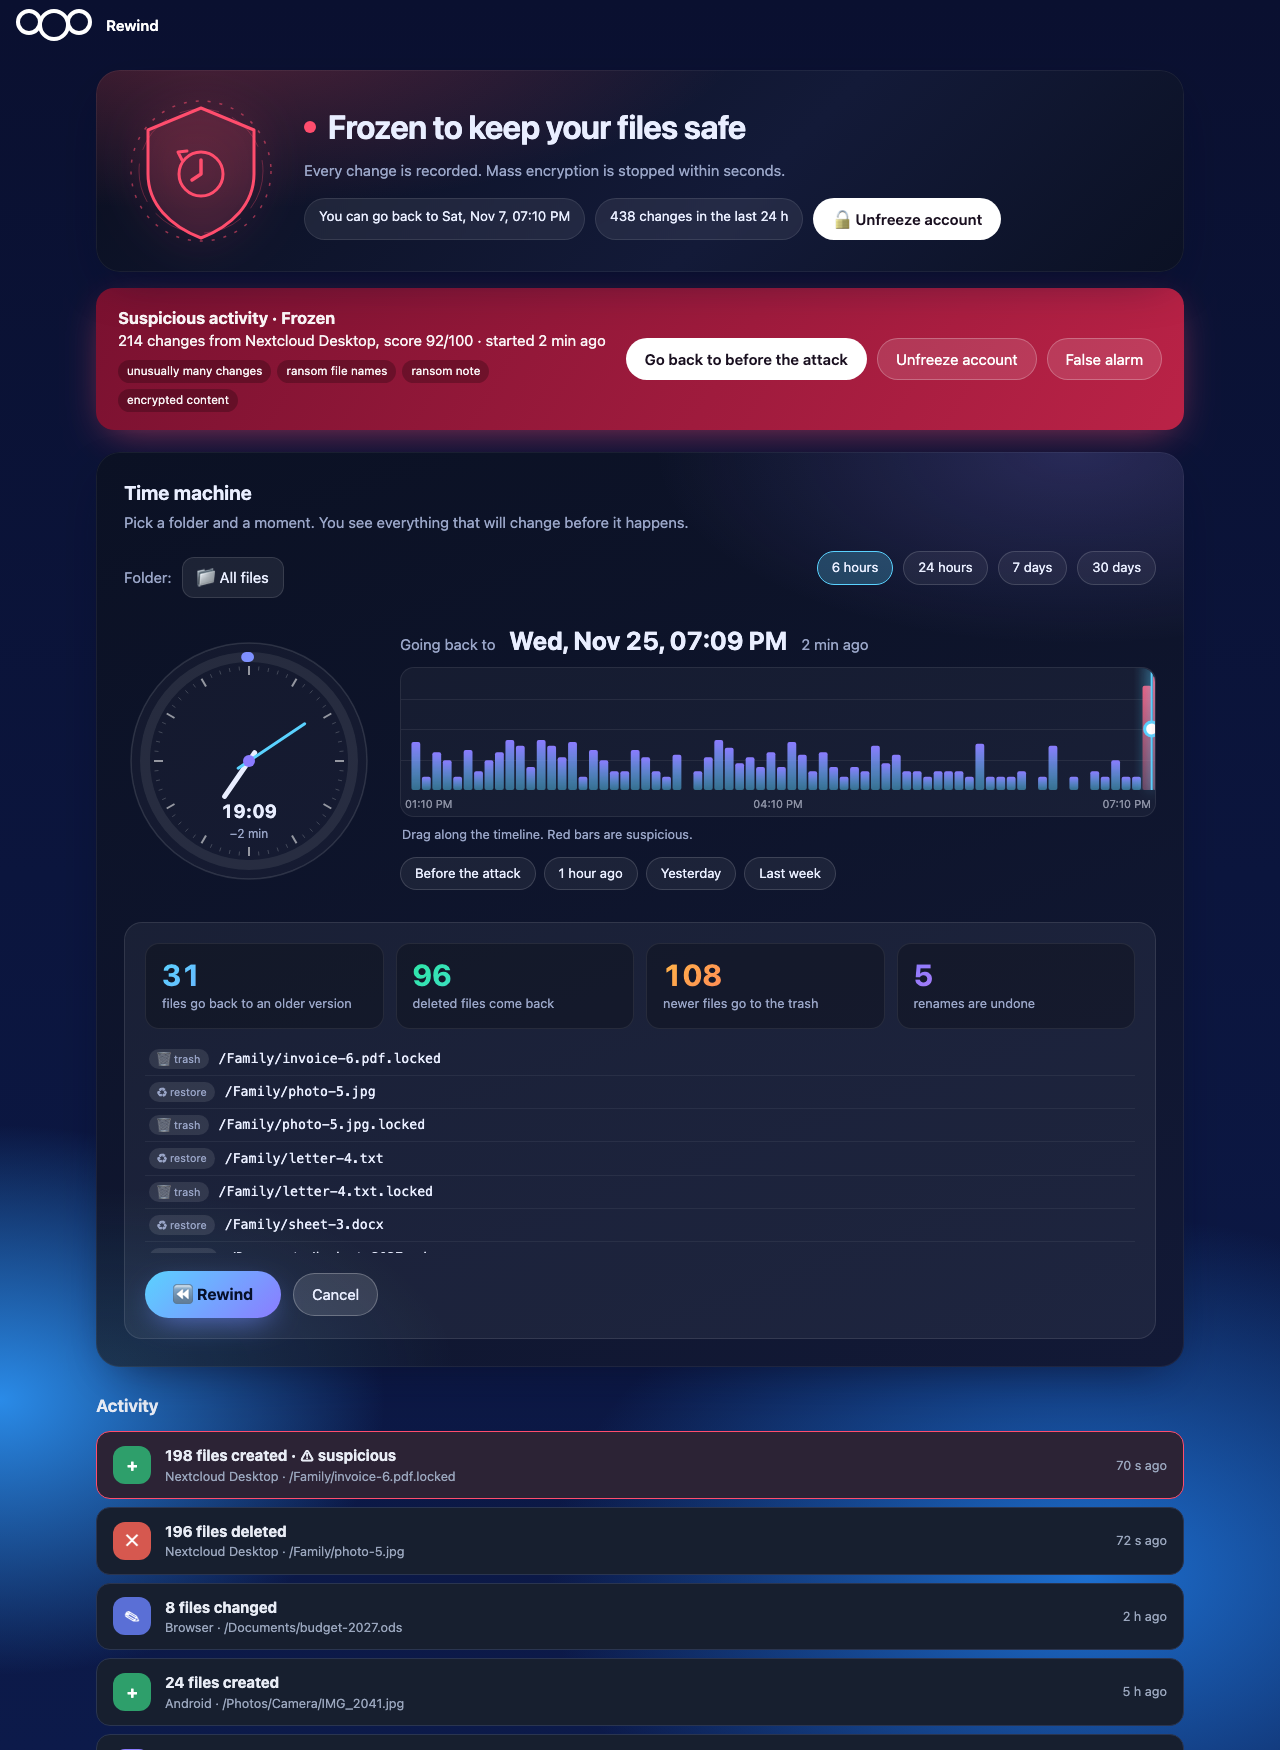
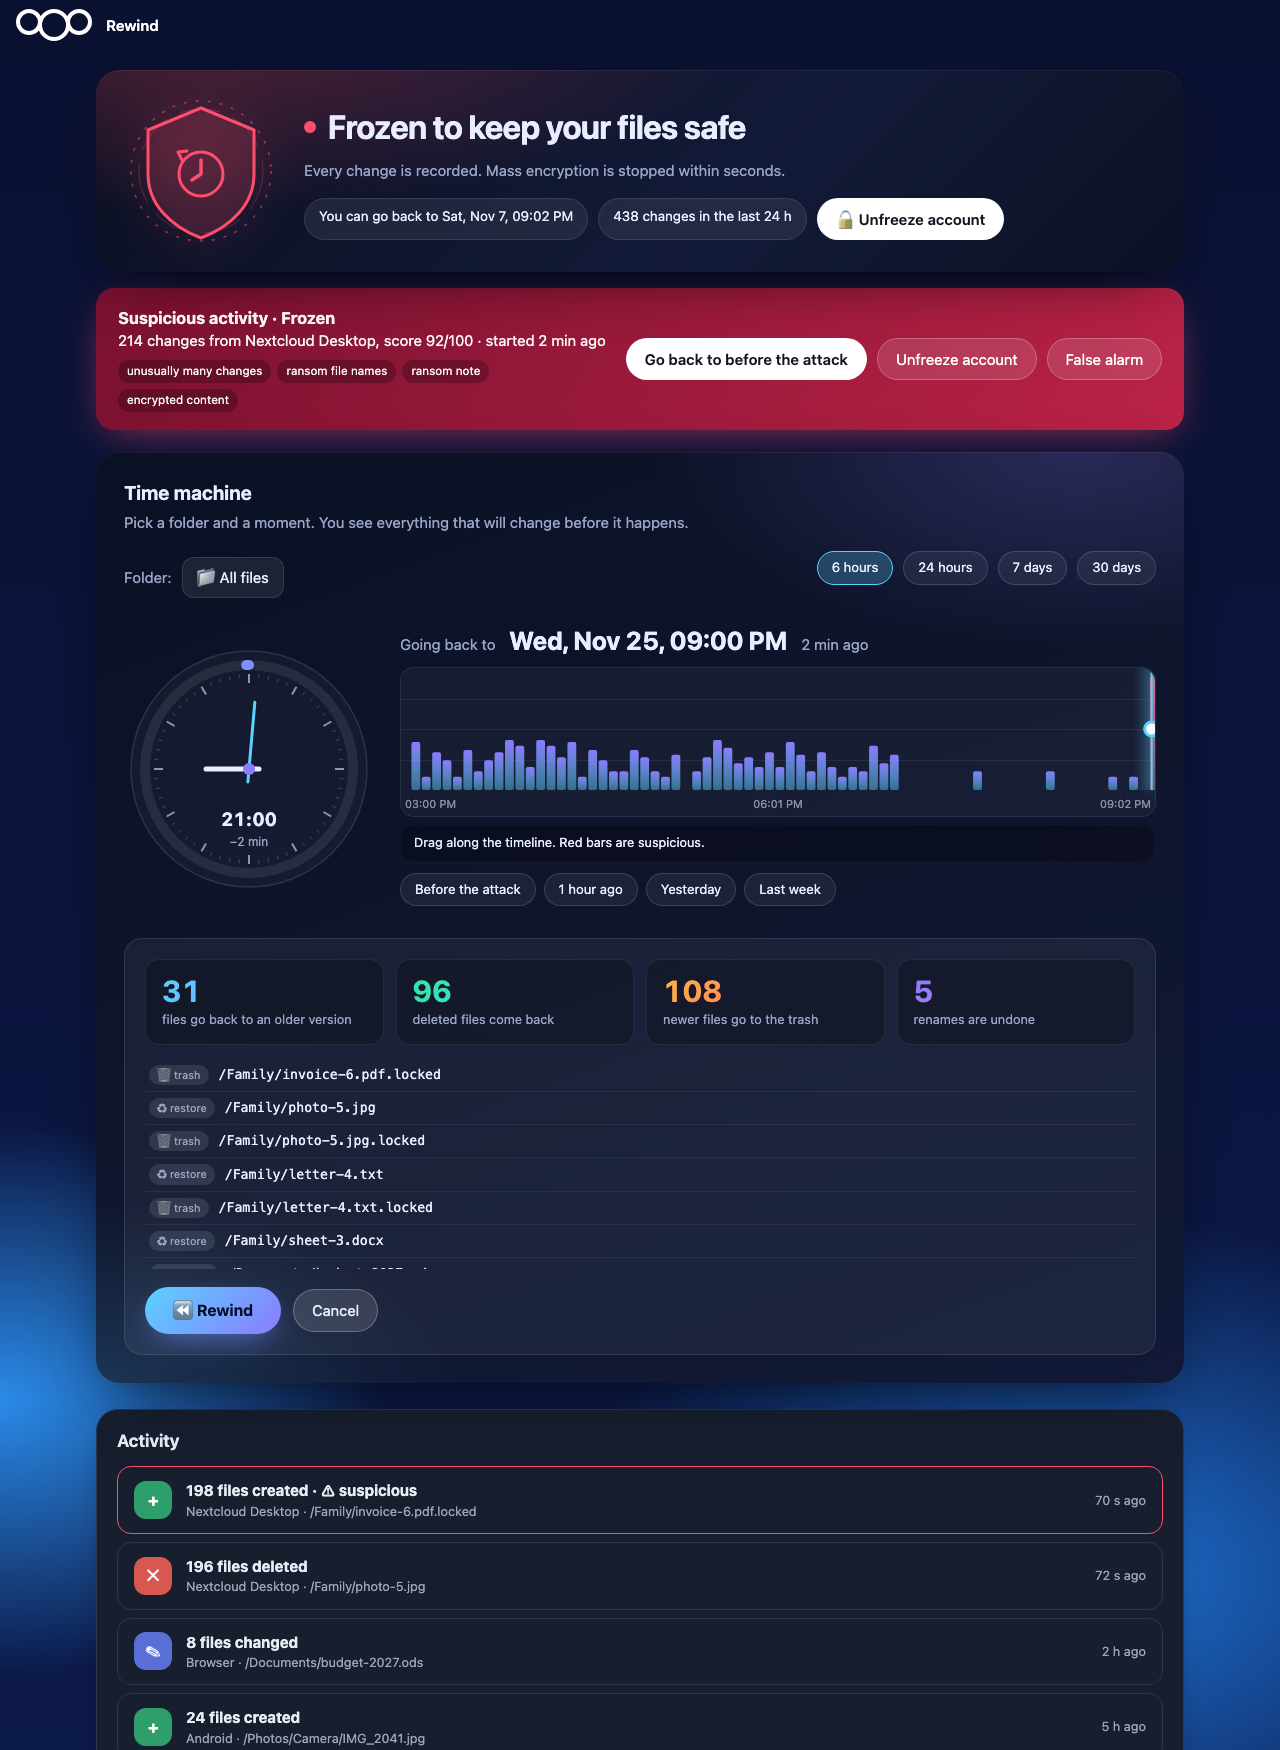
0.1.3: readable text on wallpaper backgrounds (solid cards), refreshed screenshots

diff --git a/css/rewind.css b/css/rewind.css
@@ -158,3 +158,19 @@
 
 /* the Nextcloud content area does not scroll by itself */
 .rw-scroll { height: 100%; overflow-y: auto; overflow-x: hidden; -webkit-overflow-scrolling: touch; }
+
+/* readability on top of Nextcloud wallpapers: everything outside the dark panels sits on a solid surface */
+.rw-root .rw-preview { color: var(--rw-ink); }
+.rw-root .rw-preview p { margin: 0; font-size: 1.02rem; color: var(--rw-ink); }
+.rw-root .rw-section, .rw-root .rw-foot {
+  padding: 18px 20px; border-radius: 22px; color: var(--color-main-text);
+  background: var(--color-main-background); border: 1px solid var(--color-border);
+  box-shadow: 0 10px 34px -16px rgba(0, 0, 0, .45); }
+.rw-root .rw-section > h3 { color: var(--color-main-text); }
+.rw-root .rw-feed li, .rw-root .rw-hcard { background: var(--color-background-hover, var(--color-main-background)); }
+.rw-root .rw-empty { color: var(--color-main-text); opacity: .8; padding: 18px; }
+.rw-root .rw-foot { margin-top: 22px; padding: 14px 20px; color: var(--color-main-text); opacity: 1; font-size: .9rem; line-height: 1.5; }
+.rw-root .rw-feed .rw-path, .rw-root .rw-feed .rw-when { color: var(--color-text-maxcontrast); }
+.rw-root .rw-hint { background: rgba(0, 0, 0, .28); border-radius: 10px; padding: 8px 12px; color: var(--rw-ink); }
+.rw-root .rw-machine, .rw-root .rw-hero { box-shadow: 0 24px 60px -24px rgba(0, 0, 0, .7), inset 0 1px 0 rgba(255, 255, 255, .06); }
+@media (max-width: 640px) { .rw-root .rw-section, .rw-root .rw-foot { padding: 14px; border-radius: 18px; } }

diff --git a/CHANGELOG.md b/CHANGELOG.md
@@ -1,5 +1,9 @@
 # Changelog
 
+## 0.1.3
+
+* Readability on Nextcloud wallpapers: activity, recent rewinds and footer now sit on solid cards; preview/hint text uses the light ink of the dark panels. Checked on light and dark backgrounds.
+
 ## 0.1.2
 
 * Screenshots in the repository and in the App Store listing (`bin/make-screenshots.sh` renders them from the real interface).
